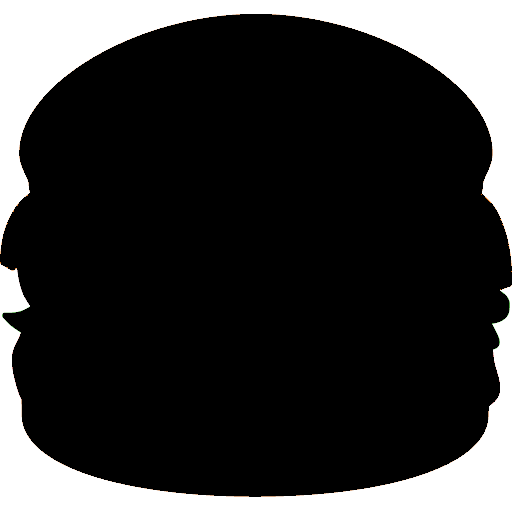
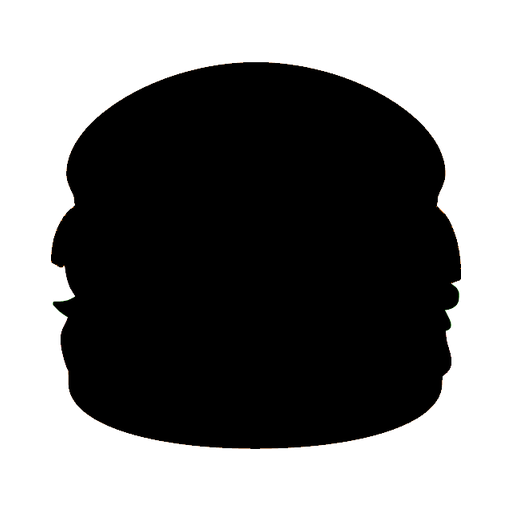
comentarios juego.js

Changed region(s): [[0.0, 0.0, 1.0, 0.9688]]

diff --git a/js/juego.js b/js/juego.js
@@ -3,14 +3,14 @@ import { Comanda } from "./clases/comanda.js";
 
 const comidas = ["agua", "ensalada", "hamburguesa", "helado", "patatas", "tarta", "nachos", "refresco"];
 var comandaActual;
-var totalComandas = 0;
+var contadorComanda = 0;
+
+function iniciarJuego() {
+    crearComanda();
+    recogerClicksSobreBotonera();
+}
 
 function crearComanda() {
-
-    if (totalComandas >= 6) {
-        /*detener el tiempo + volver a inicio*/
-        return;
-    }
 
     var totalPlatos = generarNumeroAleatorio(5);
     comandaActual = new Comanda();
@@ -22,16 +22,16 @@ function crearComanda() {
     //Limpiar la comanda anterior
     document.getElementById("lista_comanda").innerHTML = "";
     añadirComandaEnLaPagina(comandaActual);
-    totalComandas++;
 }
 
-
+//Devuelve un número aleatorio entre 1 y el parámetro recibido (max)
+//El +1 es para que el número máximo sea incluido en el rango y no devuelva 0 yaque Math.floor redondea por lo bajo
 function generarNumeroAleatorio(max) {
     return Math.floor(Math.random() * max) + 1;
 }
 
 
-
+//Creamos un plato con cantidad aleatoria (máximo 3) y comida aleatoria (alguno de los elementos del array comidas)
 function crearPlato() {
     var plato = new Plato();
     plato.setCantidad(generarNumeroAleatorio(3));
@@ -42,24 +42,25 @@ function crearPlato() {
 
 }
 
-
+//Añadimos un plato a la comandaActual si no existe ya un plato con el mismo nombre
 function añadirPlatoAComanda(comandaActual, plato) {
 
     var existe = false;
-
+    //recorremos la comandaActual y comprobamos si ya existe un plato con el mismo nombre que el obj. plato  recibido como parámetro
     for (let i = 0; i < comandaActual.platos.length; i++) {
 
         if (comandaActual.platos[i].getComida() == plato.getComida()) {
             existe = true;
         }
     }
-
+    //añadimos el palto a la comandaActual(al final del array)
     if (existe == false) {
         comandaActual.platos.push(plato);
-        console.log("Plato añadido " + plato.getCantidad() + " " + plato.getComida());
+        //console.log("Plato añadido " + plato.getCantidad() + " " + plato.getComida());
     }
 }
 
+//Añadimos la comandaActual en el html, creando un parrafo por cada plato con su cantidad y nombre
 function añadirComandaEnLaPagina(comandaActual) {
 
     var lista = document.getElementById("lista_comanda");
@@ -68,25 +69,22 @@ function añadirComandaEnLaPagina(comandaActual) {
 
         var parrafo = document.createElement("p");
         parrafo.id = "plato" + (i + 1);
-
+        //añadimos el texto al parrafo con la cantidad y el nombre del plato
         parrafo.textContent = comandaActual.platos[i].getCantidad() + " " + comandaActual.platos[i].getComida();
         lista.appendChild(parrafo);
 
     }
 }
 
+//************************** CAMBIOS TRAS CLICK ******************************************/
 
-
-
-
-
-//en una misma función pongo eventos de click sobre todas las imagenes de la botonera
+//En una misma función ponemos eventos de click sobre todas las imagenes de la botonera
 // ya que la imagen se corresponde con cada uno de los elementos del array comidas
 function recogerClicksSobreBotonera() {
     for (let i = 0; i < comidas.length; i++) {
         let comida = comidas[i]; //EXPLICAR ESTO 
         document.getElementById(comida).addEventListener("click", function () {
-            console.log(comida);
+            // console.log(comida);
             recogerClickComida(comida);
         });
 
@@ -119,14 +117,37 @@ function buscarPlatoEnComanda(comida) {
 function restarCantidadPlato(posicionPlatoEncontrado) {
     var platoEncontrado = comandaActual.platos[posicionPlatoEncontrado];
     if (platoEncontrado.getCantidad() > 0) {
-        console.log(platoEncontrado.getCantidad());
+        // console.log(platoEncontrado.getCantidad());
         platoEncontrado.restarCantidad();
-        console.log(platoEncontrado.getCantidad());
+        // console.log(platoEncontrado.getCantidad());
         var parrafo = document.getElementById("plato" + (posicionPlatoEncontrado + 1));//buscamos el id de ese parrafo para modificarlo
         parrafo.textContent = platoEncontrado.getCantidad() + " " + platoEncontrado.getComida();
         if(platoEncontrado.getCantidad() == 0){
             tacharPlato(parrafo);
         }
+        comprobarComandaCompletada();
+    }
+}
+
+function comprobarComandaCompletada() {
+    var todosLosPlatosCompletados = true;
+
+    for (let i = 0; i < comandaActual.platos.length; i++) {
+        if (comandaActual.platos[i].getCantidad() > 0) {
+            todosLosPlatosCompletados = false;
+            break;
+        }
+    }
+
+    if (todosLosPlatosCompletados) {
+        contadorComanda++;
+
+        if (contadorComanda >= 6) {
+            window.location.href = "inicio.html";
+            return;
+        }
+
+        crearComanda();
     }
 }
 
@@ -137,8 +158,4 @@ function tacharPlato(parrafo){
 
 
 
-crearComanda();
-recogerClicksSobreBotonera();
-
-
-
+iniciarJuego();

diff --git a/css/juego.css b/css/juego.css
@@ -84,7 +84,6 @@ body {
 
 
 #imagen_comanda {
-    /* background-color: black; */
     width: 100%; /*ocupa todo el ancho del padre*/
     height: 100%; /*todo lo posible del padre*/
     display: flex;
@@ -93,8 +92,7 @@ body {
     /* position: relative; referencia para colocar la lista */
 
     
-    /* background-color: antiquewhite;
-    */
+    /* background-color: antiquewhite; */
 }
 
 #comanda {
@@ -102,12 +100,13 @@ body {
     max-height: 100%;
     object-fit: contain; /*mantiene proporcion de la imagen/no deformar*/
     position: relative;
+    
 }
 
 #lista_comanda{
     position: absolute; /* Se coloca por encima del contenedor de la imagen*/
-    width: 15%;
-    height: 50%;
+    width: 20%;
+    height: 60%;
     
 
     /* z-index: 1; delante de la imagen */
@@ -116,8 +115,8 @@ body {
 }
 
 #lista_comanda p {
-    margin: 2.3rem 0.5rem;
-    font-size: 1.5rem;
+    margin: 2.3rem 0rem;
+    font-size: 2rem;
     color: black;
 }
 
